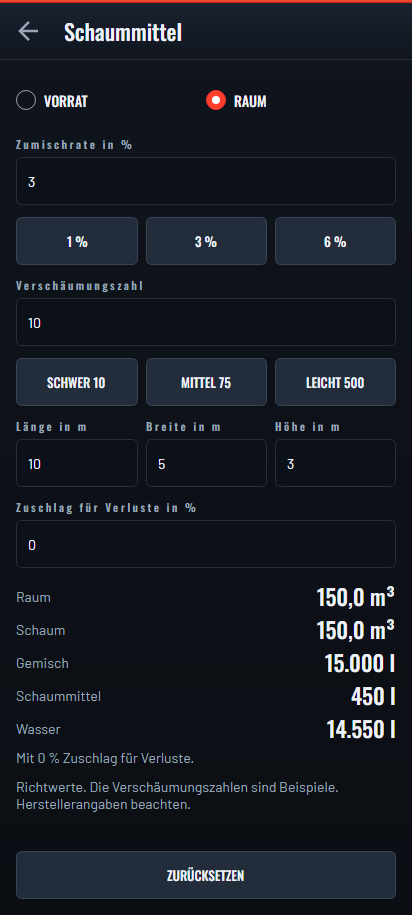
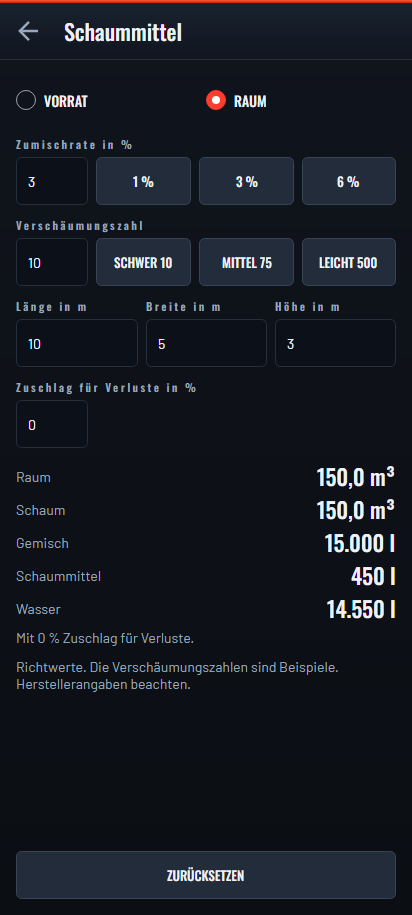
feat(schaummittel): put the preset buttons beside their field (#36)
* feat(schaummittel): put the preset buttons beside their field

The Zumischrate and Verschäumungszahl fields only hold a short number,
yet spanned the whole width with a row of presets below them. Sharing one
row saves 120 dp, so a whole RAUM calculation fits without scrolling on a
phone. The buttons keep their 48 dp height.

Closes #35

* feat(schaummittel): narrow the Zuschlag field to match the others

Zuschlag only holds a short number too, and at full width it looked out
of place below the two compact rows.

---------

Changed region(s): [[0.0291, 0.153, 0.9612, 0.8262], [0.0291, 0.7956, 0.8155, 0.8874], [0.6408, 0.4896, 0.6699, 0.5202]]

diff --git a/tests/Helfer.Acceptance.Tests/DemoFlowRenderTests.cs b/tests/Helfer.Acceptance.Tests/DemoFlowRenderTests.cs
@@ -174,6 +174,61 @@ public class DemoFlowRenderTests
         Assert.Equal(["Von 0,1 bis 50 % möglich."], errors);
     }
 
+    [AvaloniaTheory]
+    [InlineData("Zumischrate in %", "1 %")]
+    [InlineData("Verschäumungszahl", "LEICHT 500")]
+    public void A_schaummittel_preset_sits_beside_its_field_at_glove_size(string field, string preset)
+    {
+        var phone = new PhoneRender();
+        OpenSchaummittel(phone);
+
+        var input = phone.Window.GetVisualDescendants().OfType<TextBox>()
+            .Single(t => AutomationProperties.GetName(t) == field);
+        var button = phone.Window.GetVisualDescendants().OfType<Button>().Single(b => Equals(b.Content, preset));
+        var inputTop = input.TranslatePoint(default, phone.Window);
+        var buttonTop = button.TranslatePoint(default, phone.Window);
+
+        Assert.NotNull(inputTop);
+        Assert.NotNull(buttonTop);
+        Assert.Equal(inputTop.Value.Y, buttonTop.Value.Y, precision: 0);
+        Assert.True(button.Bounds.Height >= 48, $"{preset} is {button.Bounds.Height} high");
+    }
+
+    [AvaloniaFact]
+    public void The_schaummittel_zuschlag_is_as_narrow_as_the_fields_with_presets()
+    {
+        var phone = new PhoneRender();
+        var page = OpenSchaummittel(phone);
+        page.IsRaum = true;
+        PhoneRender.Settle();
+
+        double WidthOf(string field) => phone.Window.GetVisualDescendants().OfType<TextBox>()
+            .Single(t => AutomationProperties.GetName(t) == field).Bounds.Width;
+
+        Assert.Equal(WidthOf("Zumischrate in %"), WidthOf("Zuschlag für Verluste in %"), precision: 0);
+    }
+
+    // 780 dp is about what a 915 dp phone leaves between its status and navigation bars.
+    [AvaloniaFact]
+    public void A_whole_schaummittel_room_calculation_fits_without_scrolling()
+    {
+        var phone = new PhoneRender();
+        phone.Window.Height = 780;
+        var page = OpenSchaummittel(phone);
+
+        page.IsRaum = true;
+        page.Verschaeumungszahl.Text = "10";
+        page.Laenge.Text = "10";
+        page.Breite.Text = "5";
+        page.Hoehe.Text = "3";
+        PhoneRender.Settle();
+
+        var form = phone.Window.GetVisualDescendants().OfType<ScrollViewer>().Single(s => s.Name == "Form");
+        Assert.True(
+            form.Extent.Height <= form.Viewport.Height + 1,
+            $"The form is {form.Extent.Height} high in a viewport of {form.Viewport.Height}");
+    }
+
     private static Control Named(PhoneRender phone, string name) =>
         phone.Window.GetVisualDescendants().OfType<Control>().Single(c => c.Name == name);
 

diff --git a/changelog.d/+schaummittel-compact-presets.changed.md b/changelog.d/+schaummittel-compact-presets.changed.md
@@ -1,0 +1,1 @@
+The Schaummittel-Rechner shows its preset buttons beside the Zumischrate and Verschäumungszahl fields, so a whole calculation fits on one page without scrolling (#35).
